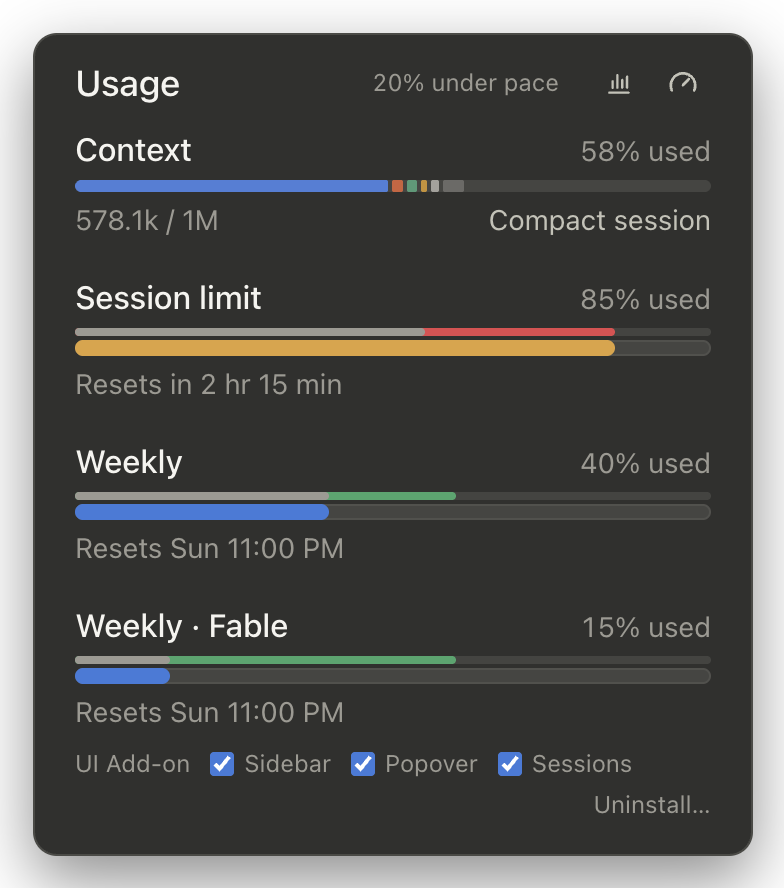
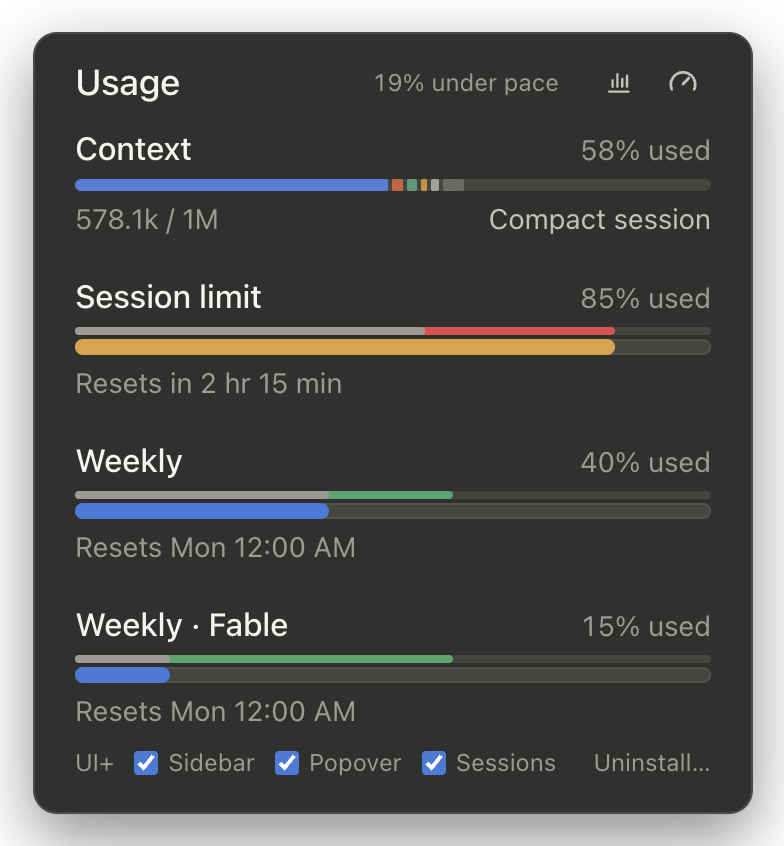
Rename UI Add-on for Claude to UI+ for Claude
"UI Add-on" described the add-on more than it named it. UI+ for Claude
is short and still says what it is. The repository, the disk image and
the package spell it ui-plus and UI-Plus, since GitHub names can't hold
a "+". Opening the new app also replaces UI Add-on for Claude 0.4.0,
like it replaces Usage Pace, and the settings row in Claude's usage
popover now fits on one line. Release 0.4.1.

diff --git a/Extension/widget.js b/Extension/widget.js
@@ -19,7 +19,7 @@
   // stop the polling.
   const FETCH_TIMEOUT_MS = 15_000;
   const ACCOUNT_CHECK_MS = 2_000;
-  const NAME = 'UI Add-on';
+  const NAME = 'UI+';
   const GAUGE_PATHS = ['M3.8 14.2a6.8 6.8 0 1 1 12.4 0', 'M10 11.2l3.2-3.4'];
 
   const STRINGS = {
@@ -41,10 +41,10 @@
       used: (percent) => percent + ' used',
       compact: 'Compact session',
       showRail: 'Show session rail',
-      confirmUninstall: 'Remove UI Add-on from Claude?',
+      confirmUninstall: 'Remove UI+ from Claude?',
       cancel: 'Cancel',
       remove: 'Remove',
-      removed: 'Hidden. To remove UI Add-on completely, open the UI Add-on for Claude app in Applications or move it to the Trash.',
+      removed: 'Hidden. To remove UI+ completely, open the UI+ for Claude app in Applications or move it to the Trash.',
     },
     de: {
       title: 'Nutzung',
@@ -64,10 +64,10 @@
       used: (percent) => percent + ' genutzt',
       compact: 'Sitzung komprimieren',
       showRail: 'Sitzungsleiste anzeigen',
-      confirmUninstall: 'UI Add-on aus Claude entfernen?',
+      confirmUninstall: 'UI+ aus Claude entfernen?',
       cancel: 'Abbrechen',
       remove: 'Entfernen',
-      removed: 'Ausgeblendet. Zum vollständigen Entfernen die App „UI Add-on for Claude“ in Programme öffnen oder in den Papierkorb legen.',
+      removed: 'Ausgeblendet. Zum vollständigen Entfernen die App „UI+ for Claude“ in Programme öffnen oder in den Papierkorb legen.',
     },
   };
 

diff --git a/Scripts/dmg-background.swift b/Scripts/dmg-background.swift
@@ -1,4 +1,4 @@
-// Draws the background of the UI Add-on for Claude disk image window, 640 × 440 points,
+// Draws the background of the UI+ for Claude disk image window, 640 × 440 points,
 // as a TIFF with a 1x and a 2x image so it stays sharp on Retina screens.
 //
 //   swift Scripts/dmg-background.swift <output.tiff> [preview.png]
@@ -34,7 +34,7 @@ func render(scale: CGFloat) -> NSBitmapImageRep {
     color(0xF5F5F3).setFill()
     NSRect(origin: .zero, size: size).fill()
 
-    drawCentered("UI Add-on for Claude", top: 52, font: .systemFont(ofSize: 26, weight: .semibold), color: color(0x1D1D1F))
+    drawCentered("UI+ for Claude", top: 52, font: .systemFont(ofSize: 26, weight: .semibold), color: color(0x1D1D1F))
     drawCentered("Drag the app onto Applications", top: 90, font: .systemFont(ofSize: 15), color: color(0x6E6E73))
     // Kept clear of the bottom edge: newer macOS versions have taller title
     // bars, which leave less of the window for the picture.

diff --git a/docs/demo/index.html b/docs/demo/index.html
@@ -3,7 +3,7 @@
 <head>
 <meta charset="utf-8">
 <meta name="viewport" content="width=device-width, initial-scale=1">
-<title>UI Add-on for Claude Demo</title>
+<title>UI+ for Claude Demo</title>
 <!-- A stand-in for the Claude desktop app's sidebar, usage popover and session
      rail, with the real extension (../../Extension) loaded on top. demo.js
      answers the usage API with the scenario picked in the toolbar, so every

diff --git a/README.md b/README.md
@@ -1,10 +1,10 @@
-# UI Add-on for Claude
+# UI+ for Claude
 
 **See your Claude limits coming.** Plan usage with pace, active sessions and session context, right inside the Claude desktop app on your Mac.
 
-[![Download for macOS](https://img.shields.io/badge/Download-for%20macOS-2a78d6?style=for-the-badge&logo=apple&logoColor=white)](https://github.com/LukasvanUden/ui-addon-for-claude/releases/latest/download/UI-Add-on-for-Claude.dmg)
+[![Download for macOS](https://img.shields.io/badge/Download-for%20macOS-2a78d6?style=for-the-badge&logo=apple&logoColor=white)](https://github.com/LukasvanUden/ui-plus-for-claude/releases/latest/download/UI-Plus-for-Claude.dmg)
 
-[![Latest release](https://img.shields.io/github/v/release/LukasvanUden/ui-addon-for-claude?label=release)](https://github.com/LukasvanUden/ui-addon-for-claude/releases/latest)
+[![Latest release](https://img.shields.io/github/v/release/LukasvanUden/ui-plus-for-claude?label=release)](https://github.com/LukasvanUden/ui-plus-for-claude/releases/latest)
 [![Notarized by Apple](https://img.shields.io/badge/notarized-by%20Apple-black?logo=apple)](#private-by-design)
 [![License: MIT](https://img.shields.io/badge/license-MIT-blue)](LICENSE)
 
@@ -15,11 +15,11 @@
   </picture>
   <picture>
     <source media="(prefers-color-scheme: dark)" srcset="docs/screenshots/compact-popover-dark.png">
-    <img src="docs/screenshots/compact-popover-light.png" alt="Claude's usage popover with the session's context and Compact session, time lines above the limits, and the UI Add-on settings row" width="392">
+    <img src="docs/screenshots/compact-popover-light.png" alt="Claude's usage popover with the session's context and Compact session, time lines above the limits, and the UI+ settings row" width="392">
   </picture>
 </p>
 
-Claude's limits reset every five hours and every week. Claude shows how much of them you've used, but not whether you're using them too fast, so the limit tends to arrive by surprise. UI Add-on for Claude shows you both, and adds a few things the Claude app is missing.
+Claude's limits reset every five hours and every week. Claude shows how much of them you've used, but not whether you're using them too fast, so the limit tends to arrive by surprise. UI+ for Claude shows you both, and adds a few things the Claude app is missing.
 
 ## What you get
 
@@ -40,36 +40,36 @@ When one limit runs out faster than the other:
 
 ## Install
 
-1. Download **[UI-Add-on-for-Claude.dmg](https://github.com/LukasvanUden/ui-addon-for-claude/releases/latest/download/UI-Add-on-for-Claude.dmg)** and open it.
-2. Drag **UI Add-on for Claude** onto **Applications**.
+1. Download **[UI-Plus-for-Claude.dmg](https://github.com/LukasvanUden/ui-plus-for-claude/releases/latest/download/UI-Plus-for-Claude.dmg)** and open it.
+2. Drag **UI+ for Claude** onto **Applications**.
 3. Open it from your Applications folder and click **OK**.
 4. Quit Claude (⌘Q) and open it again.
 
 **Or let an agent do it:** copy this prompt into Claude Code (or any agent that can run commands on your Mac):
 
 ```text
-Install UI Add-on for Claude (https://github.com/LukasvanUden/ui-addon-for-claude) on this Mac by running:
+Install UI+ for Claude (https://github.com/LukasvanUden/ui-plus-for-claude) on this Mac by running:
 
-curl -fL -o /tmp/UI-Add-on-for-Claude.dmg https://github.com/LukasvanUden/ui-addon-for-claude/releases/latest/download/UI-Add-on-for-Claude.dmg
-hdiutil attach -nobrowse -quiet /tmp/UI-Add-on-for-Claude.dmg
-ditto "/Volumes/UI Add-on for Claude/UI Add-on for Claude.app" "/Applications/UI Add-on for Claude.app"
-hdiutil detach -quiet "/Volumes/UI Add-on for Claude"
-"/Applications/UI Add-on for Claude.app/Contents/Resources/UI Add-on for Claude" install
+curl -fL -o /tmp/UI-Plus-for-Claude.dmg https://github.com/LukasvanUden/ui-plus-for-claude/releases/latest/download/UI-Plus-for-Claude.dmg
+hdiutil attach -nobrowse -quiet /tmp/UI-Plus-for-Claude.dmg
+ditto "/Volumes/UI+ for Claude/UI+ for Claude.app" "/Applications/UI+ for Claude.app"
+hdiutil detach -quiet "/Volumes/UI+ for Claude"
+"/Applications/UI+ for Claude.app/Contents/Resources/UI+ for Claude" install
 
 Do not quit the Claude app yourself. When done, tell me to quit Claude with Cmd+Q and open it again.
 ```
 
-**Coming from Usage Pace?** UI Add-on for Claude is its new name. Install it as above: it replaces Usage Pace, moves the old app to the Trash and keeps your settings.
+**Coming from Usage Pace?** UI+ for Claude is its new name. Install it as above: it replaces Usage Pace, moves the old app to the Trash and keeps your settings.
 
 ### From a git clone
 
 ```sh
-git clone https://github.com/LukasvanUden/ui-addon-for-claude.git
-cd ui-addon-for-claude
+git clone https://github.com/LukasvanUden/ui-plus-for-claude.git
+cd ui-plus-for-claude
 bash Scripts/build-app.sh
 ```
 
-Then move `build/UI Add-on for Claude.app` to Applications and open it.
+Then move `build/UI+ for Claude.app` to Applications and open it.
 
 ## Private by design
 
@@ -80,7 +80,7 @@ Then move `build/UI Add-on for Claude.app` to Applications and open it.
 
 ## Settings, updates and uninstalling
 
-- **Settings:** the **UI Add-on** row at the bottom of Claude's usage popover turns the sidebar row, the popover additions and the session gears on or off.
+- **Settings:** the **UI+** row at the bottom of Claude's usage popover turns the sidebar row, the popover additions and the session gears on or off.
 - **Updates:** once a day, the add-on checks GitHub for a newer release. When there is one, it opens a dialog with a download link (once per release). From a git clone, update with `bash Scripts/update.sh`.
 - **Uninstall:** click **Uninstall…** in the usage popover and everything disappears right away. To remove the files as well, open the app and click **Uninstall**, or move it to the Trash (it then stops at your next login). Restart Claude afterwards.
 
@@ -100,11 +100,11 @@ macOS only for now.
 
 ## How it works
 
-When the Claude desktop app starts with the environment variable `REACT_PROFILE=1`, it loads a local browser extension from `~/Library/Application Support/Claude/extensions/fmkadmapgofadopljbjfkapdkoienihi`. This hook is meant for React DevTools; UI Add-on for Claude puts its own small extension there instead.
+When the Claude desktop app starts with the environment variable `REACT_PROFILE=1`, it loads a local browser extension from `~/Library/Application Support/Claude/extensions/fmkadmapgofadopljbjfkapdkoienihi`. This hook is meant for React DevTools; UI+ for Claude puts its own small extension there instead.
 
 The app ([App/](App/)) copies [Extension/](Extension/) to that folder and adds a login item (`~/Library/LaunchAgents/io.github.lukasvanuden.usagepace.plist`, named after the add-on's first name, Usage Pace). At login and once a day, it sets `REACT_PROFILE=1` for apps you open and checks for updates. The login item runs from inside the app, so it stops once the app is gone.
 
-- macOS lists the login item as **UI Add-on for Claude** under System Settings → General → Login Items & Extensions. Turning it off there stops the add-on after your next login.
+- macOS lists the login item as **UI+ for Claude** under System Settings → General → Login Items & Extensions. Turning it off there stops the add-on after your next login.
 - `REACT_PROFILE=1` is set for every app you open, not only Claude. Other apps normally ignore it.
 - If Claude opens at login before the variable is set, the add-on appears after the next Claude restart.
 
@@ -115,7 +115,7 @@ npm install
 npm test
 ```
 
-`Scripts/build-app.sh` builds `build/UI Add-on for Claude.app`, signed ad hoc. `Scripts/release.sh <notarytool profile>` builds `build/UI-Add-on-for-Claude.dmg` for a release: signed with your Developer ID and notarized by Apple. It lets Finder arrange the disk image window, so macOS asks once to let your terminal control Finder.
+`Scripts/build-app.sh` builds `build/UI+ for Claude.app`, signed ad hoc. `Scripts/release.sh <notarytool profile>` builds `build/UI-Plus-for-Claude.dmg` for a release: signed with your Developer ID and notarized by Apple. It lets Finder arrange the disk image window, so macOS asks once to let your terminal control Finder.
 
 For screenshots, [docs/demo](docs/demo/index.html) shows the extension on a stand-in for Claude's sidebar and usage popover, with a toolbar to switch between scenarios (under, on or over pace, near the limit, new windows), context levels, English and German, and dark and light. Serve the repository and open it:
 
@@ -131,4 +131,4 @@ The tests load the extension into a stand-in for Claude ([Tests/fake-claude](Tes
 
 ---
 
-The project is [MIT licensed](LICENSE). Claude is a trademark of Anthropic, PBC. UI Add-on for Claude is an independent project and is not affiliated with, endorsed by, or sponsored by Anthropic.
+The project is [MIT licensed](LICENSE). Claude is a trademark of Anthropic, PBC. UI+ for Claude is an independent project and is not affiliated with, endorsed by, or sponsored by Anthropic.
